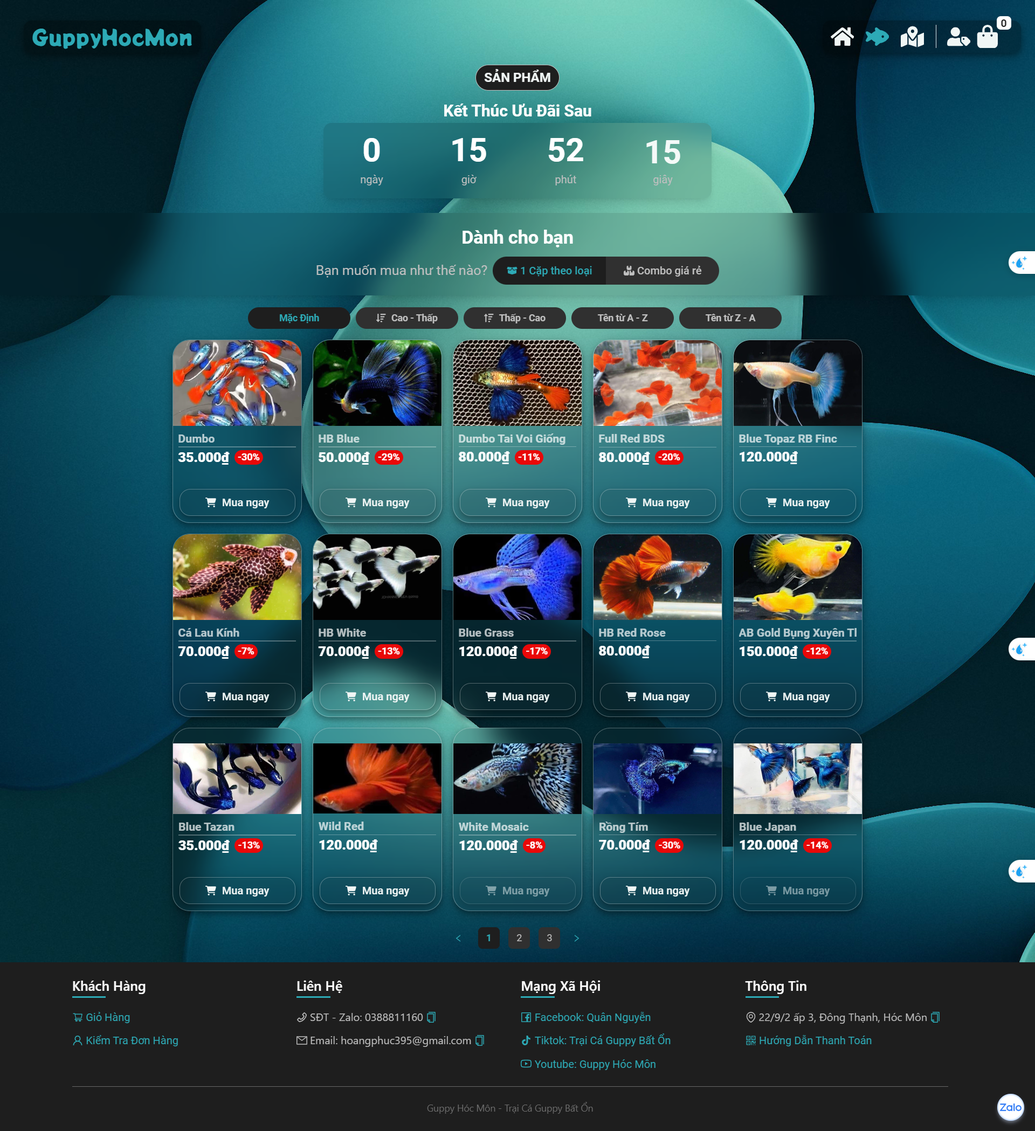
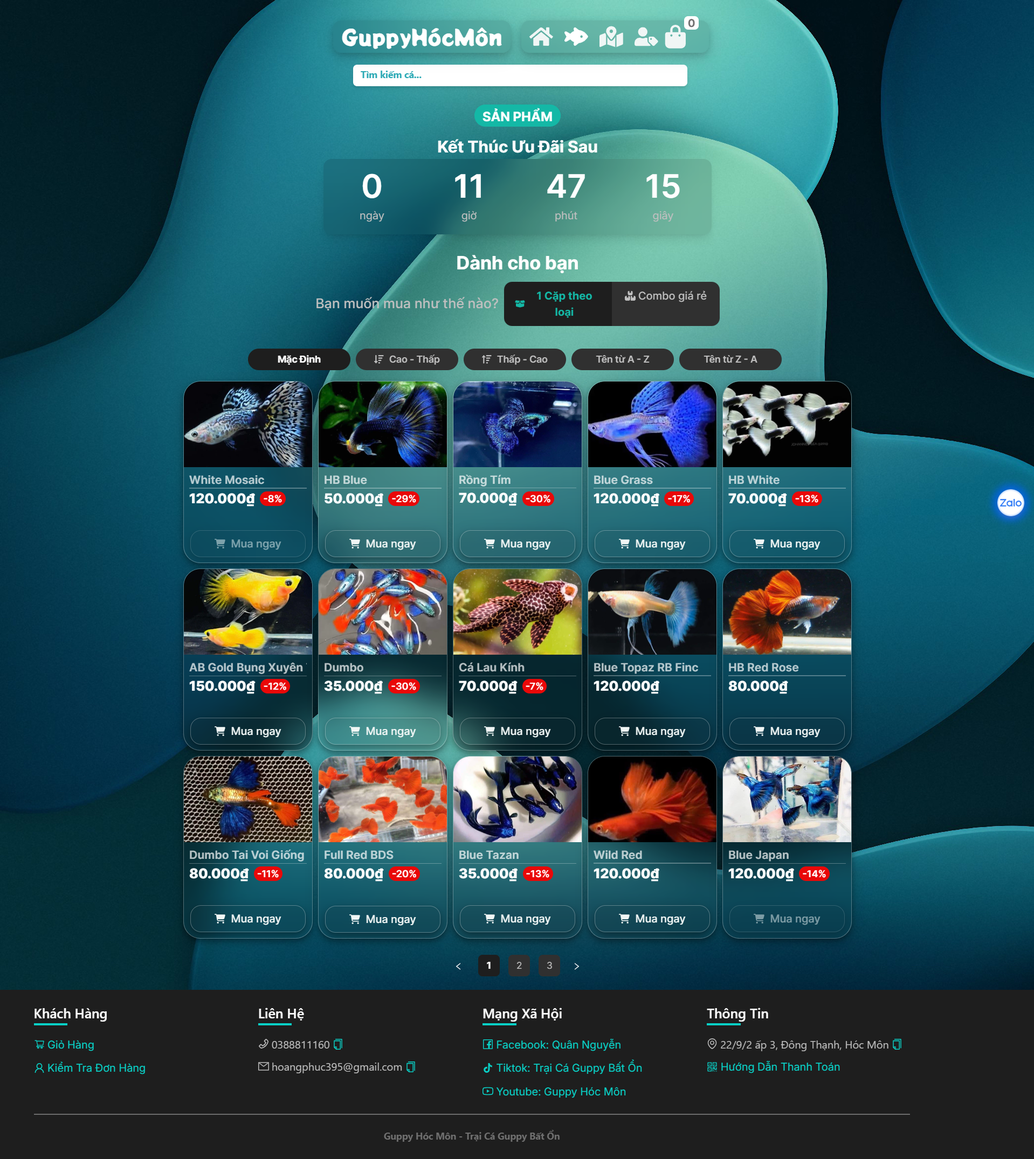
update ui

diff --git a/src/components/Headera/Header.jsx b/src/components/Headera/Header.jsx
@@ -47,7 +47,7 @@ const Header = () => {
 
   return (
     <header className={`header ${sticky && "sticky-header "}`}>
-      {sticky && <div className="overlay"></div>}
+      <div className={`${sticky && "overlay"} overlay-mobile`}></div>
       <nav className="nav container">
         <div className="flex items-center gap-4">
           <a href="#home" className="nav__logo">
@@ -92,6 +92,17 @@ const Header = () => {
 
       <Drawer isOpen={toggle} setIsOpen={setToggle}>
         <ul className="nav__list flex-col items-start pt-10 px-4">
+          <li className="nav__item">
+            <a
+              href={"#home"}
+              onClick={() => setActiveNav("#home")}
+              className={
+                activeNav === "#home" ? "nav__link active-link" : "nav__link"
+              }
+            >
+              Duy.dev
+            </a>
+          </li>
           {nav.map((item, index) => {
             return (
               <li className="nav__item" key={index}>

diff --git a/src/components/scrollup/scrollup.css b/src/components/scrollup/scrollup.css
@@ -2,9 +2,9 @@
     position        : fixed;
     right           : 2.5rem;
     bottom          : -20%;
-    background-color: var(--title-color);
+    background-color: var(--pink);
     opacity         : 0.8;
-    padding         : 0.3rem 0.5rem;
+    padding         : 0.2rem 0.4rem;
     border-radius   : 0.4rem;
     z-index         : var(--z-tolltip);
     transition      : .4s;
@@ -12,7 +12,7 @@
 
 .scrollup__icon {
     font-size: 1.5rem;
-    color    : var(--container-color);
+    color    : var(--text-color);
 
 }
 
@@ -40,10 +40,8 @@
 /* for medium devices */
 @media screen and (max-width: 768px) {
     .show-scroll {
-        bottom: 4rem;
+        bottom: 5rem;
     }
-
-
 }
 
 

diff --git a/src/components/Headera/header.css b/src/components/Headera/header.css
@@ -52,3 +52,21 @@
 .active-link {
   color: var(--pink);
 }
+
+@media (max-width: 768px) {
+  .header {
+    top: unset;
+    bottom: 0;
+    box-shadow: 1px 1px 40px var(--shadow-header-color);
+  }
+
+  .overlay-mobile {
+    position: absolute;
+    top: 0;
+    left: 0;
+    width: 100%;
+    height: 100%;
+    z-index: -1; /* Ensure overlay is above the background but below the content */
+    backdrop-filter: blur(20px);
+  }
+}

diff --git a/src/components/tech/TechTask.css b/src/components/tech/TechTask.css
@@ -29,6 +29,9 @@
 }
 
 .logos ul li {
+  display: flex;
+  align-items: center;
+  justify-content: center;
   width: var(--width);
   height: var(--height);
   position: absolute;
